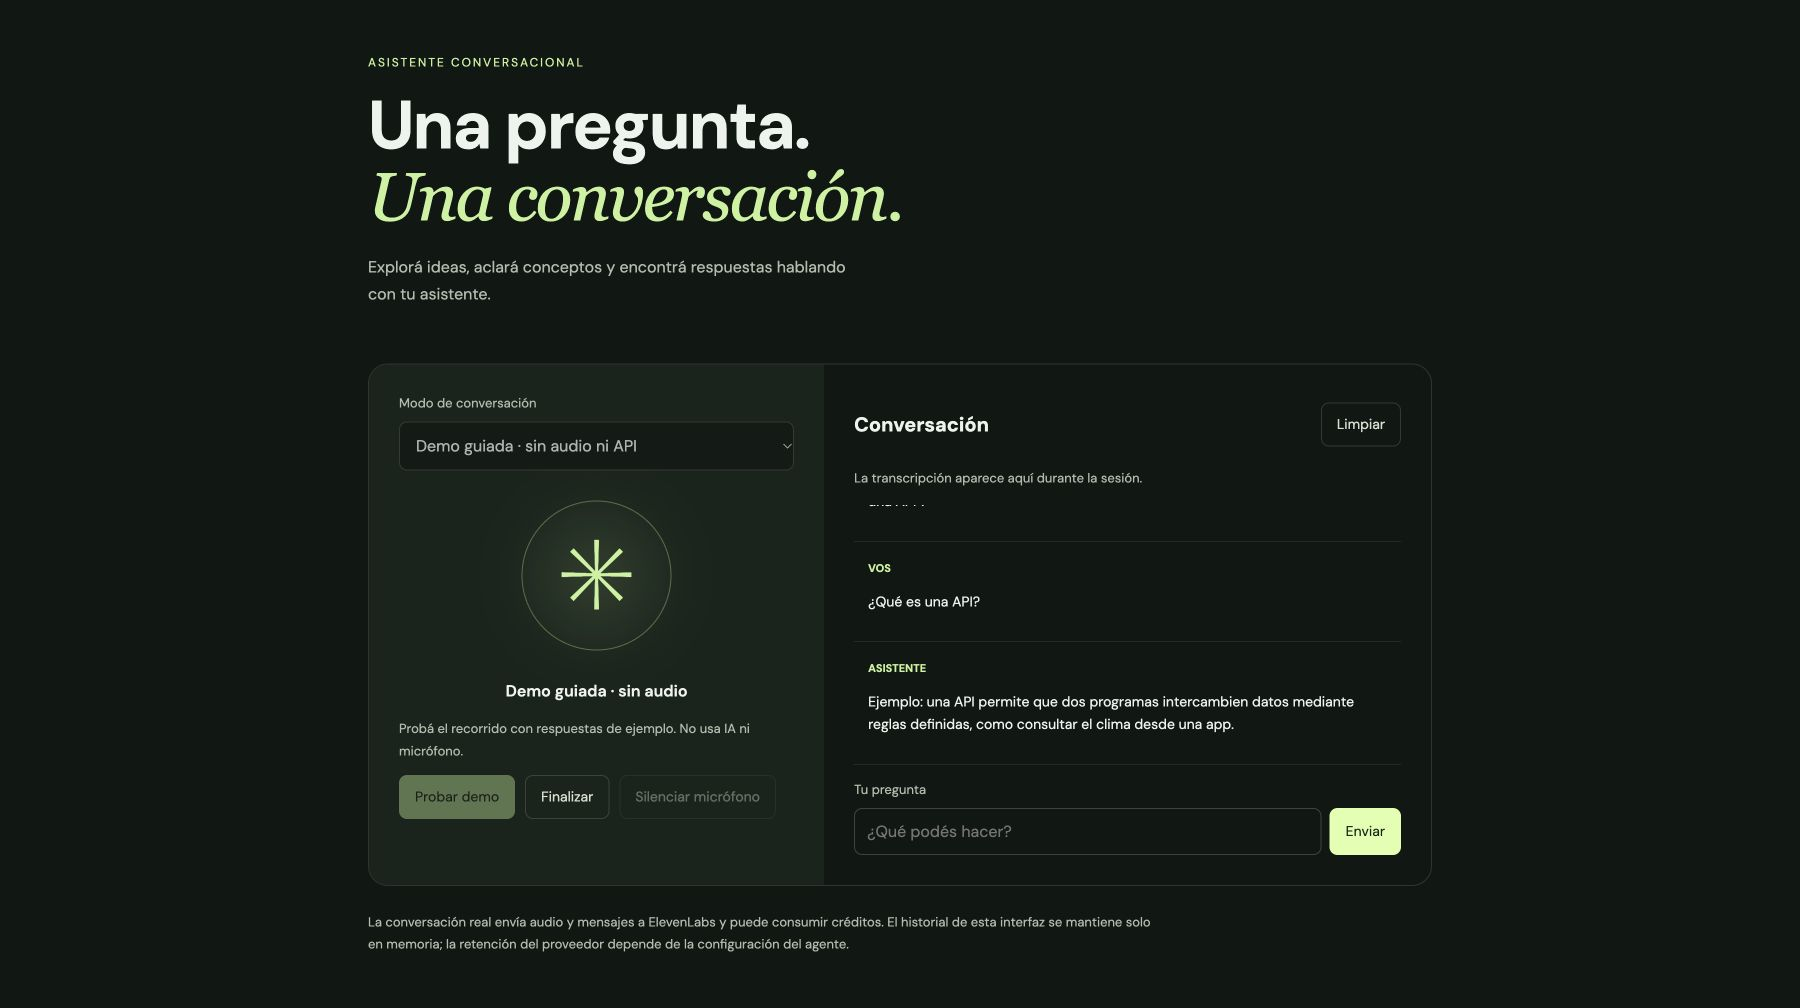
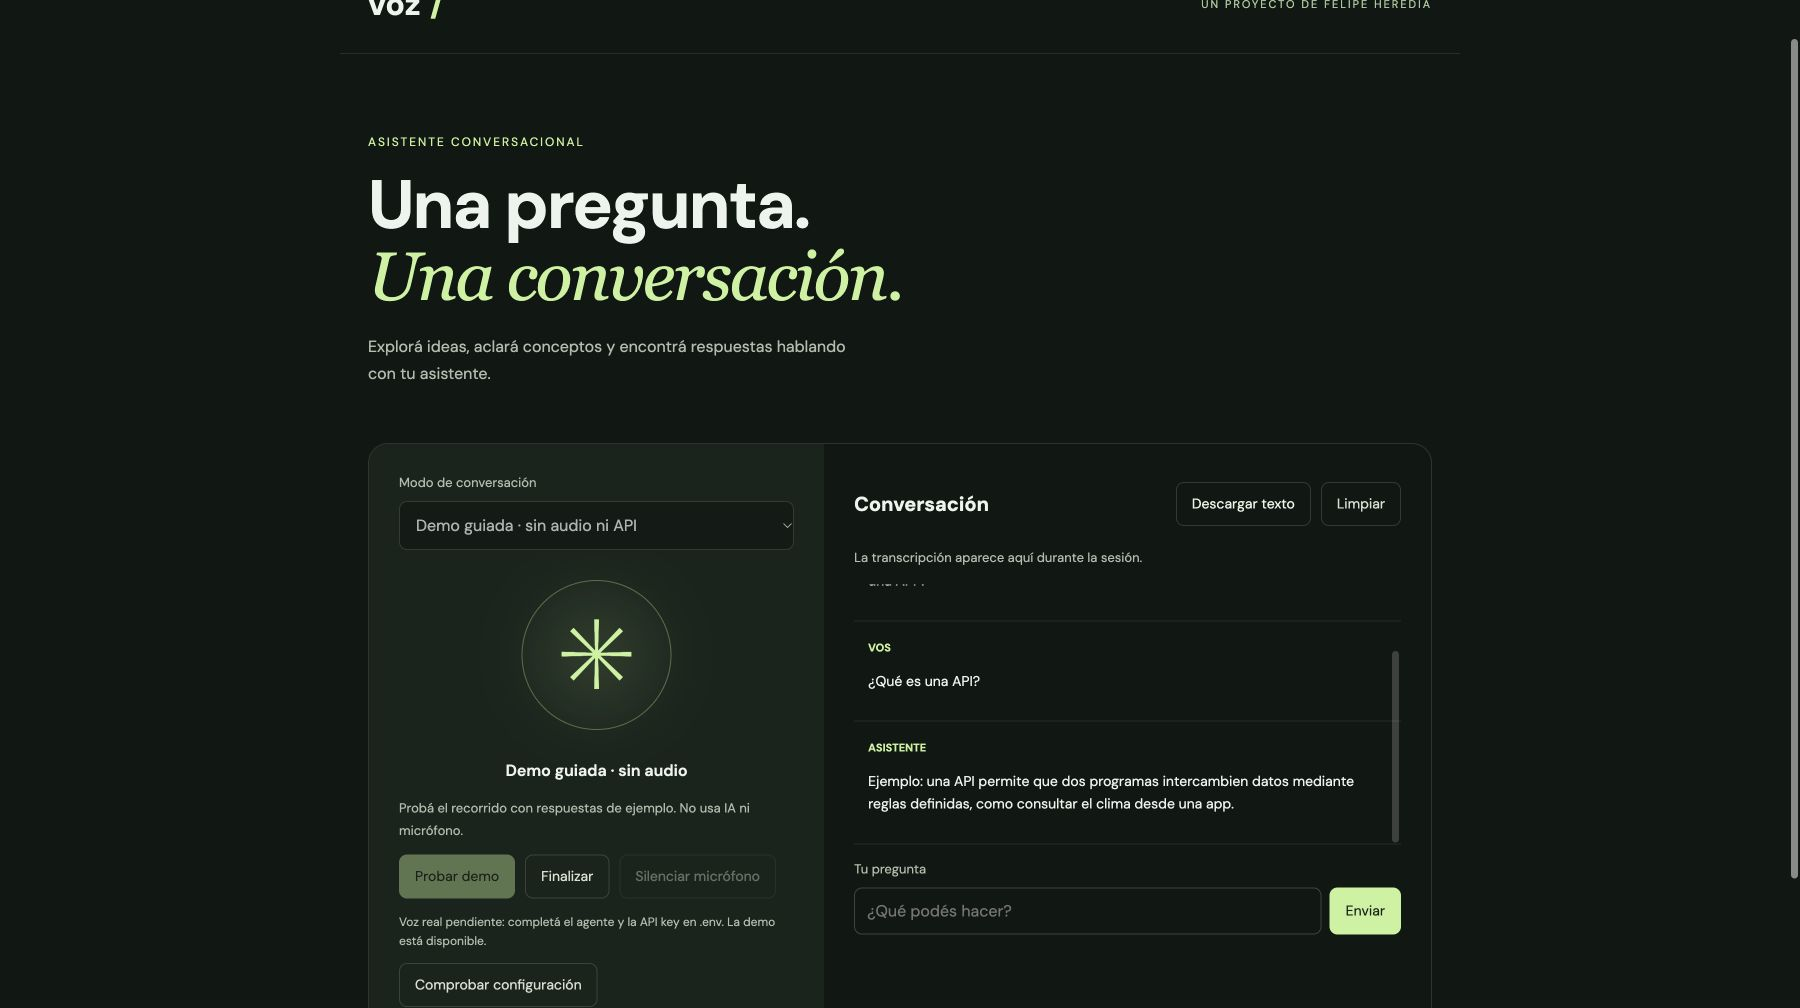
Handle cancellable voice sessions and export local transcripts

diff --git a/src/main.js b/src/main.js
@@ -1,74 +1,102 @@
 import './style.css';
+import { createSessionController } from './session.js';
 const $ = (id) => document.getElementById(id);
-let session = null, active = false, muted = false, starting = false;
+let muted = false, transcript = [], configured = null;
+const controller = createSessionController({
+  onState(state) {
+    if (state === 'idle') muted = false;
+    $('status').textContent = {idle:'Listo para conversar',connecting:'Conectando…',connected:$('mode').value === 'demo' ? 'Demo guiada · sin audio' : 'Conectado',stopping:'Finalizando…'}[state];
+    update();
+  },
+  onError(error) { $('error').textContent = error.name === 'NotAllowedError' ? 'El micrófono no tiene permiso. Habilitalo en el navegador o probá la demo.' : error.message || 'No se pudo conectar.'; },
+});
 function update() {
-  $('start').disabled = active || starting;
-  $('stop').disabled = !active;
-  $('mode').disabled = active || starting;
-  $('mute').disabled = !session;
-  $('question').disabled = !active;
-  $('send').disabled = !active;
+  const {state,session} = controller;
+  $('start').disabled = state !== 'idle' || ($('mode').value === 'live' && configured !== true);
+  $('stop').disabled = state === 'idle' || state === 'stopping';
+  $('stop').textContent = state === 'connecting' ? 'Cancelar conexión' : 'Finalizar';
+  $('mode').disabled = state !== 'idle';
+  $('mute').disabled = !session || $('mode').value !== 'live';
+  $('question').disabled = state !== 'connected';
+  $('send').disabled = state !== 'connected';
+  $('download').disabled = transcript.length === 0;
   $('mute').setAttribute('aria-pressed', String(muted));
   $('mute').textContent = muted ? 'Activar micrófono' : 'Silenciar micrófono';
 }
 function message(role, text) {
+  if (typeof text !== 'string' || !text.trim()) return;
+  transcript.push({role:role === 'user' ? 'Vos' : 'Asistente',text,mode:$('mode').value});
   const li = document.createElement('li');
   const label = document.createElement('strong');
   label.textContent = role === 'user' ? 'Vos' : 'Asistente';
   const body = document.createElement('p'); body.textContent = text;
   li.append(label, body); $('messages').append(li);
-  li.scrollIntoView({block:'nearest', behavior:'smooth'});
+  $('messages').scrollTop = $('messages').scrollHeight;
+  update();
 }
-function disconnected() {
-  active = false; session = null; muted = false;
-  $('status').textContent = 'Conversación finalizada'; update();
+async function checkConfiguration() {
+  configured = null; update(); $('configuration').textContent = 'Comprobando configuración de voz…';
+  try {
+    const response = await fetch('/api/status', {signal:AbortSignal.timeout(5000)});
+    if (!response.ok) throw Error();
+    configured = (await response.json()).configured === true;
+    $('configuration').textContent = configured ? 'ElevenLabs configurado. La conexión se valida al iniciar.' : 'Voz real pendiente: completá el agente y la API key en .env. La demo está disponible.';
+  } catch {
+    configured = false; $('configuration').textContent = 'Servidor de voz no disponible. Ejecutá npm run server. La demo está disponible.';
+  }
+  update();
 }
+$('retry').addEventListener('click', checkConfiguration);
 $('mode').addEventListener('change', () => {
   const live = $('mode').value === 'live';
   $('start').textContent = live ? 'Iniciar conversación' : 'Probar demo';
   $('notice').textContent = live ? 'Al iniciar, permitís usar el micrófono y enviar tu voz a ElevenLabs. Podés silenciarlo o finalizar cuando quieras.' : 'Probá el recorrido con respuestas de ejemplo. No usa IA ni micrófono.';
-  $('error').textContent = '';
+  $('error').textContent = ''; update();
 });
 $('start').addEventListener('click', async () => {
-  starting = true; $('error').textContent = ''; update();
+  $('error').textContent = '';
+  if ($('mode').value === 'demo') {
+    await controller.start(async () => ({endSession:async()=>{}}));
+    message('assistant', '¡Hola! Esta es una demostración. Probá escribir “qué podés hacer” o “qué es una API”.');
+    return;
+  }
+  await controller.start(async (signal, callbacks) => {
+    const response = await fetch('/api/session', {method:'POST',headers:{'X-Voice-Client':'local'},signal});
+    const data = await response.json();
+    if (!response.ok) throw new Error(data.error);
+    const { Conversation } = await import('@elevenlabs/client');
+    signal.throwIfAborted();
+    return Conversation.startSession({signedUrl:data.signedUrl,connectionType:'websocket',...callbacks});
+  }, {
+    onMessage:({source,message:text})=>message(source,text),
+    onModeChange:({mode})=>{ $('status').textContent = mode === 'speaking' ? 'El asistente está hablando' : muted ? 'Micrófono silenciado' : 'Te escucho'; },
+    onError:()=>{ $('error').textContent = 'La conexión tuvo un problema. Finalizá y volvé a intentar.'; },
+  });
+});
+$('stop').addEventListener('click', () => controller.stop());
+$('mute').addEventListener('click', () => {
   try {
-    if ($('mode').value === 'demo') {
-      active = true; $('status').textContent = 'Demo guiada · sin audio';
-      message('assistant', '¡Hola! Esta es una demostración. Probá escribir “qué podés hacer” o “qué es una API”.');
-    } else {
-      $('status').textContent = 'Conectando…';
-      const response = await fetch('/api/session', {method:'POST', headers:{'X-Voice-Client':'local'}});
-      const data = await response.json();
-      if (!response.ok) throw new Error(data.error);
-      const { Conversation } = await import('@elevenlabs/client');
-      session = await Conversation.startSession({signedUrl:data.signedUrl, connectionType:'websocket',
-        onMessage: ({source, message: text}) => message(source, text),
-        onDisconnect: disconnected,
-        onModeChange: ({mode}) => { $('status').textContent = mode === 'speaking' ? 'El asistente está hablando' : 'Te escucho'; },
-        onError: () => { $('error').textContent = 'La conexión tuvo un problema. Finalizá y volvé a intentar.'; }
-      });
-      active = true; $('status').textContent = 'Conectado';
-    }
-  } catch (error) {
-    disconnected(); $('error').textContent = error.message || 'No se pudo conectar. Revisá el permiso del micrófono.';
-  } finally { starting = false; update(); }
+    controller.session?.setMicMuted(!muted); muted = !muted;
+    $('status').textContent = muted ? 'Micrófono silenciado' : 'Te escucho'; update();
+  } catch { $('error').textContent = 'No se pudo cambiar el micrófono. Finalizá la sesión si el problema continúa.'; }
 });
-$('stop').addEventListener('click', async () => {
-  try { if (session) await session.endSession(); }
-  finally { disconnected(); }
+$('clear').addEventListener('click', () => { transcript=[]; $('messages').replaceChildren(); update(); });
+$('download').addEventListener('click', () => {
+  const text = 'Voz · Transcripción local\nLos mensajes [DEMO] son ejemplos predefinidos.\n\n' + transcript.map(item=>`${item.mode === 'demo' ? '[DEMO] ' : ''}${item.role}: ${item.text}`).join('\n\n');
+  const url = URL.createObjectURL(new Blob([text], {type:'text/plain;charset=utf-8'}));
+  const link = document.createElement('a'); link.href=url; link.download='conversacion.txt'; link.click();
+  setTimeout(()=>URL.revokeObjectURL(url),1000);
 });
-$('mute').addEventListener('click', () => { muted = !muted; session?.setMicMuted(muted); update(); });
-$('clear').addEventListener('click', () => { $('messages').replaceChildren(); });
 $('text-form').addEventListener('submit', (event) => {
-  event.preventDefault(); const text = $('question').value.trim();
-  if (!active || !text) return;
-  $('question').value = '';
-  if (session) {
-    try { session.sendUserMessage(text); } catch { $('error').textContent = 'No se pudo enviar el mensaje.'; }
+  event.preventDefault(); const text=$('question').value.trim();
+  if (controller.state !== 'connected' || !text) return;
+  if ($('mode').value === 'live') {
+    try { controller.session.sendUserMessage(text); $('question').value=''; }
+    catch { $('error').textContent='No se pudo enviar el mensaje. Tu texto sigue disponible para reintentar.'; }
   } else {
-    message('user', text);
+    $('question').value=''; message('user',text);
     message('assistant', /api/i.test(text) ? 'Ejemplo: una API permite que dos programas intercambien datos mediante reglas definidas, como consultar el clima desde una app.' : /hacer|ayud/i.test(text) ? 'En el modo real puedo explicar conceptos, proponer ideas y responder preguntas. Esta demo solo reproduce respuestas predefinidas.' : 'Esta pregunta necesita el modo real de ElevenLabs. La demo no genera respuestas con IA.');
   }
 });
-window.addEventListener('pagehide', () => { session?.endSession(); });
-update();
+window.addEventListener('pagehide', () => { void controller.stop(); });
+update(); void checkConfiguration();

diff --git a/index.html b/index.html
@@ -1,6 +1,6 @@
 <!doctype html><html lang="es"><head><meta charset="UTF-8"><meta name="viewport" content="width=device-width, initial-scale=1.0"><title>Voz · Asistente personal</title></head><body><div id="app">
 <header><a href="/">voz<span> /</span></a><span>UN PROYECTO DE FELIPE HEREDIA</span></header>
 <main><section class="intro"><p class="eyebrow">ASISTENTE CONVERSACIONAL</p><h1>Una pregunta.<br><em>Una conversación.</em></h1><p>Explorá ideas, aclará conceptos y encontrá respuestas hablando con tu asistente.</p></section>
-<section class="workspace"><div class="controls"><label for="mode">Modo de conversación</label><select id="mode"><option value="demo">Demo guiada · sin audio ni API</option><option value="live">Conversación real · ElevenLabs</option></select><div class="orb" aria-hidden="true">✳</div><p id="status" role="status">Listo para explorar</p><p id="notice">Probá el recorrido con respuestas de ejemplo. No usa IA ni micrófono.</p><div class="actions"><button id="start">Probar demo</button><button id="stop" class="secondary" disabled>Finalizar</button><button id="mute" class="secondary" disabled aria-pressed="false">Silenciar micrófono</button></div><p id="error" role="alert"></p></div>
-<div class="conversation"><div class="transcript-heading"><h2>Conversación</h2><button id="clear" class="secondary">Limpiar</button></div><p class="hint">La transcripción aparece aquí durante la sesión.</p><ol id="messages" aria-live="polite" aria-label="Transcripción"></ol><form id="text-form"><label for="question">Tu pregunta</label><div class="input-row"><input id="question" maxlength="1000" placeholder="¿Qué podés hacer?" required disabled><button id="send" disabled>Enviar</button></div></form></div></section>
+<section class="workspace"><div class="controls"><label for="mode">Modo de conversación</label><select id="mode"><option value="demo">Demo guiada · sin audio ni API</option><option value="live">Conversación real · ElevenLabs</option></select><div class="orb" aria-hidden="true">✳</div><p id="status" role="status">Listo para explorar</p><p id="notice">Probá el recorrido con respuestas de ejemplo. No usa IA ni micrófono.</p><div class="actions"><button id="start">Probar demo</button><button id="stop" class="secondary" disabled>Finalizar</button><button id="mute" class="secondary" disabled aria-pressed="false">Silenciar micrófono</button></div><p id="error" role="alert"></p><p id="configuration" role="status"></p><button id="retry" class="secondary">Comprobar configuración</button></div>
+<div class="conversation"><div class="transcript-heading"><h2>Conversación</h2><div class="actions"><button id="download" class="secondary" disabled>Descargar texto</button><button id="clear" class="secondary">Limpiar</button></div></div><p class="hint">La transcripción aparece aquí durante la sesión.</p><ol id="messages" aria-live="polite" aria-label="Transcripción"></ol><form id="text-form"><label for="question">Tu pregunta</label><div class="input-row"><input id="question" maxlength="1000" placeholder="¿Qué podés hacer?" required disabled><button id="send" disabled>Enviar</button></div></form></div></section>
 <footer>La conversación real envía audio y mensajes a ElevenLabs y puede consumir créditos. El historial de esta interfaz se mantiene solo en memoria; la retención del proveedor depende de la configuración del agente.</footer></main></div><script type="module" src="/src/main.js"></script></body></html>

diff --git a/src/style.css b/src/style.css
@@ -1,2 +1,4 @@
 @import url('https://fonts.googleapis.com/css2?family=DM+Sans:wght@400;500;600;700&display=swap');
 :root{font-family:'DM Sans',sans-serif;color:#edf3ec;background:#101713;color-scheme:dark;font-synthesis:none}*{box-sizing:border-box}body{margin:0}header,main{max-width:1120px;margin:auto;padding:28px}header{display:flex;align-items:center;justify-content:space-between;border-bottom:1px solid #ffffff18}header a{font-size:32px;color:inherit;text-decoration:none;font-weight:700}header span{font-size:11px;letter-spacing:2px;color:#abc89c}header a span{font-size:32px;color:#c6f299}.intro{padding:40px 0}.eyebrow{color:#c6f299;font-size:12px;letter-spacing:2px}h1{font-size:clamp(40px,6vw,68px);line-height:1.05;letter-spacing:-2px;margin:20px 0}h1 em{font-family:Georgia,serif;color:#c6f299;font-weight:400}.intro>p:last-child{color:#aebdac;line-height:1.7;max-width:500px}.workspace{display:grid;grid-template-columns:0.9fr 1.2fr;border:1px solid #ffffff20;border-radius:20px;overflow:hidden}.controls{padding:30px;background:#18231b}.conversation{padding:30px;min-width:0}.orb{width:150px;height:150px;margin:30px auto;border:1px solid #c6f29955;border-radius:50%;display:grid;place-items:center;font-size:100px;color:#c6f299;background:radial-gradient(#c6f29920,transparent);box-shadow:0 0 60px #c6f29910}label{display:block;font-size:13px;color:#afbeab;margin-bottom:10px}select,input{font:inherit;width:100%;padding:12px;background:#101713;color:inherit;border:1px solid #ffffff30;border-radius:8px}button{font:inherit;font-size:14px;min-height:44px;border:1px solid transparent;border-radius:8px;background:#c6f299;color:#142017;padding:10px 15px;cursor:pointer}.secondary{background:transparent;border-color:#ffffff25;color:#d5e0d0}button:disabled{opacity:.4;cursor:default}button:hover:not(:disabled){filter:brightness(1.1)}:focus-visible{outline:2px solid #c6f299;outline-offset:4px}.actions{display:flex;flex-wrap:wrap;gap:10px}#status{text-align:center;font-weight:600}#notice,.hint,footer{font-size:13px;line-height:1.7;color:#aebdac}#error{color:#ffbcb4;font-size:14px}.transcript-heading{display:flex;align-items:center;justify-content:space-between;gap:12px}h2{font-size:20px}ol{padding:0;list-style:none;height:260px;overflow:auto}li{padding:14px;border-bottom:1px solid #ffffff15}li strong{font-size:11px;color:#c6f299;text-transform:uppercase}li p{font-size:14px;line-height:1.6;overflow-wrap:anywhere}.input-row{display:flex;gap:8px}.input-row input{min-width:0}footer{max-width:800px;padding:25px 0}@media(max-width:700px){header,main{padding:20px}header>span{max-width:140px;text-align:right}.workspace{grid-template-columns:1fr}.controls,.conversation{padding:22px}.intro{padding:20px 0}h1{letter-spacing:-1px}.orb{height:100px;width:100px;font-size:70px}.conversation{border-top:1px solid #ffffff20}}
+
+#configuration{font-size:12px;line-height:1.6;color:#aebdac}.transcript-heading{flex-wrap:wrap}

diff --git a/tests/lifecycle.test.js b/tests/lifecycle.test.js
@@ -1,0 +1,51 @@
+import test from 'node:test';
+import assert from 'node:assert/strict';
+import { createSessionController } from '../src/session.js';
+const deferred = () => { let resolve; const promise = new Promise(r => {resolve=r;}); return {promise,resolve}; };
+
+test('cancel during connection aborts request and closes a late session', async () => {
+  const pending=deferred(); let signal, closed=0;
+  const controller=createSessionController();
+  const task=controller.start(s=>{signal=s;return pending.promise;});
+  assert.equal(controller.state,'connecting');
+  await controller.stop();
+  assert.equal(signal.aborted,true);
+  pending.resolve({endSession:async()=>{closed++;}});
+  await task;
+  assert.equal(closed,1);
+  assert.equal(controller.state,'idle');
+});
+test('callbacks from a cancelled session cannot affect a new session', async () => {
+  const controller=createSessionController(); let oldEvents, messages=0;
+  await controller.start(async(s,events)=>{oldEvents=events;return {endSession:async()=>{}};}, {onMessage:()=>messages++});
+  await controller.stop();
+  await controller.start(async()=>({endSession:async()=>{}}));
+  oldEvents.onDisconnect(); oldEvents.onMessage('late');
+  assert.equal(controller.state,'connected'); assert.equal(messages,0);
+});
+test('repeated starts create only one connection and disconnect releases state', async () => {
+  const pending=deferred(); let calls=0, events;
+  const controller=createSessionController();
+  const task=controller.start(async(s,e)=>{calls++;events=e;return pending.promise;});
+  await controller.start(async()=>{calls++;});
+  pending.resolve({endSession:async()=>{}}); await task;
+  events.onDisconnect();
+  assert.equal(calls,1); assert.equal(controller.state,'idle');
+});
+test('failed connection is recoverable', async () => {
+  let errors=0;
+  const controller=createSessionController({onError:()=>errors++});
+  await controller.start(async()=>{throw Error('offline');});
+  assert.equal(controller.state,'idle'); assert.equal(errors,1);
+  await controller.start(async()=>({endSession:async()=>{}}));
+  assert.equal(controller.state,'connected');
+});
+test('late close completion cannot reset a newer connection', async () => {
+  const pending=deferred(); const controller=createSessionController();
+  await controller.start(async()=>({endSession:()=>pending.promise}));
+  const stopping=controller.stop();
+  await controller.stop();
+  await controller.start(async()=>({endSession:async()=>{}}));
+  pending.resolve(); await stopping;
+  assert.equal(controller.state,'connected');
+});

diff --git a/src/session.js b/src/session.js
@@ -1,0 +1,41 @@
+/** Owns session lifecycle; stale callbacks cannot revive a cancelled session. */
+export function createSessionController({ onState = () => {}, onError = () => {} } = {}) {
+  let state = 'idle', session = null, generation = 0, pending = null;
+  const publish = (next) => { state = next; onState(next); };
+  return {
+    get state() { return state; },
+    get session() { return session; },
+    async start(connect, callbacks = {}) {
+      if (state !== 'idle') return;
+      const id = ++generation;
+      const abort = new AbortController(); pending = abort;
+      publish('connecting');
+      const guarded = Object.fromEntries(Object.entries(callbacks).map(([name, fn]) => [name, (...args) => {
+        if (id === generation) fn(...args);
+      }]));
+      try {
+        const opened = await connect(abort.signal, {
+          ...guarded,
+          onDisconnect: () => {
+            if (id !== generation) return;
+            generation++; session = null; pending = null; publish('idle');
+          },
+        });
+        if (id !== generation) { await opened.endSession(); return; }
+        session = opened; pending = null; publish('connected');
+      } catch (error) {
+        if (id !== generation) return;
+        pending = null; session = null; publish('idle'); onError(error);
+      }
+    },
+    async stop() {
+      const id = ++generation; pending?.abort(); pending = null;
+      const closing = session; session = null;
+      if (!closing) { publish('idle'); return; }
+      publish('stopping');
+      try { await closing.endSession(); }
+      catch { onError(new Error('No se pudo confirmar el cierre. Cerrá esta pestaña para liberar el micrófono.')); }
+      finally { if (id === generation) publish('idle'); }
+    },
+  };
+}

diff --git a/README.md b/README.md
@@ -57,3 +57,11 @@ Las pruebas del servidor usan un proveedor simulado: configuración ausente, ori
 ## Próximos pasos
 
 Validar voz real y reconexión en Chrome/Safari; medir latencia y documentar resultados; agregar pruebas de interfaz automatizadas; preparar autenticación antes de una demo pública.
+
+## Mejoras de uso
+
+- La interfaz comprueba si el servidor tiene agente y clave configurados antes de habilitar voz real; esto no comprueba la validez de las credenciales ni la cuota.
+- Podés cancelar mientras se conecta. Si el SDK termina de conectar después de la cancelación, la sesión tardía se cierra y sus eventos se descartan.
+- Podés descargar la transcripción como texto. Los mensajes de demo se etiquetan `[DEMO]`; el archivo se genera en el navegador y no se envía al servidor.
+- Limpiar borra el historial local, no la retención del proveedor. Los mensajes fallidos conservan el texto para reintentar.
+- Las pruebas del ciclo de sesión cubren cancelación, respuestas tardías, conexiones repetidas, desconexión y recuperación de errores sin usar micrófono ni créditos.
